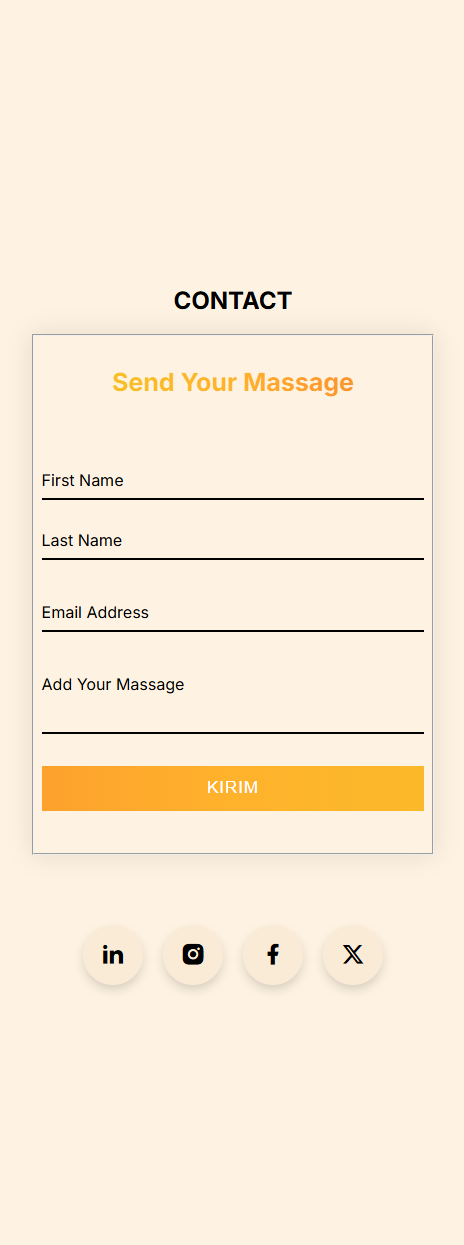
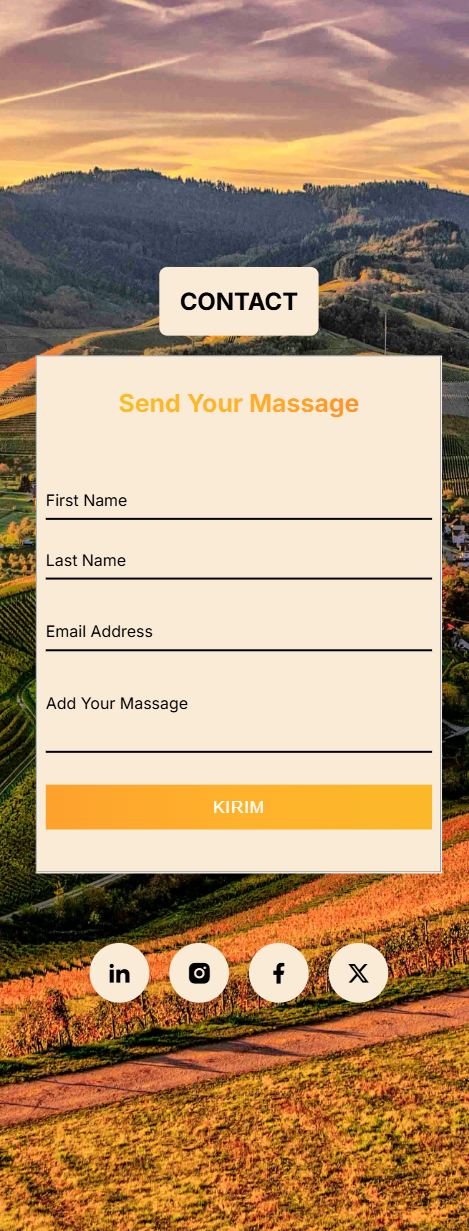
update bg image

diff --git a/styles/style.css b/styles/style.css
@@ -531,17 +531,24 @@ td {
     min-height: 100vh;
     display: flex;
 
-    background-image: url("images/css-images/background-contact.jpg");
-    background-size: cover;
-    background-position: center;
-    background-repeat: no-repeat;
+    /* Background Images */
+    background-image: url("/images/css-images/background-contact.jpg");
     background-attachment: fixed;
+    background-repeat: no-repeat;
+    background-position: center;
+    background-size: cover;
+}
+
+#contact > h1 {
+    background: antiquewhite;
+    padding: 20px;
+    border-radius: 0.5rem;
 }
 
 fieldset {
     box-shadow: 0 0 25px rgba(0, 0, 0, 0.1);
     padding: 20px 40px 10px 40px;
-    background: transparent;
+    background: antiquewhite;
     box-sizing: border-box;
     max-width: 800px;
     width: 100%;

diff --git a/index.html b/index.html
@@ -214,7 +214,7 @@
                 </a>
             </figure>
         </section>
-        <hr>
+        
         
         <!-- SECTION CONTACT -->
         <!-- Implementasi Pembuatan Tag Semantic (Section) -->
@@ -298,7 +298,6 @@
              </div>
         </section>
     </main>
-    <hr>
 
     
     <!-- ++++++++++++++++++ FOOTER ++++++++++++++++++ -->

diff --git a/README.md b/README.md
@@ -29,6 +29,7 @@ This website is designed to showcase my portfolio, provide information about my 
 - **Entities** – Reserved characters represented using special codes in HTML
 - **Semantic Tags** – HTML elements that carry meaningful structure and context
 - **Favicon** – A small icon associated with a website, typically displayed in the browser tab
+- **Background Image** - property specifies an image to use as the background of an element.
 - **Remix Icon** - A collection of open-source, neutrally styled system icons designed specifically for designers and developers.
 - **Keyframe Rule** - Used to control the steps in an animation sequence by defining CSS styles for points along the animation sequence
 ---
@@ -54,7 +55,7 @@ Open in a Web Browser :
 
 ![/images/markdown-images/doc-markdown-header-revou.png](/images/markdown-images/contact-page.png "Portfolio M. Nur Achwan Pasla")
 
-4. Next, the "Contact" page serves as a way for visitors to get in touch. It also includes several social media links for those who wish to connect further.
+4. Next, the "Contact" page serves as a way for visitors to get in touch. It also includes several social media links for those who wish to connect further with extras background-image.
 
 ![/images/markdown-images/doc-markdown-navbar-logo.png](/images/markdown-images/responsive-navbar.png "Portfolio M. Nur Achwan Pasla")
 
@@ -78,7 +79,7 @@ Open in a Web Browser :
 
 ![/images/markdown-images/doc-markdown-about-me-tag-details.png](/images/markdown-images/responsive-contact.png "Portfolio M. Nur Achwan Pasla")
 
-10. The "Contact" page is also designed to be responsive, adjusting to a column layout to suit mobile device displays.
+10. The "Contact" page is also designed to be responsive, adjusting to a column layout to suit mobile device displays with extras background-image.
 
 ![/images/markdown-images/doc-markdown-projects-section.png](/images/markdown-images/footer.png "Portfolio M. Nur Achwan Pasla")
 
